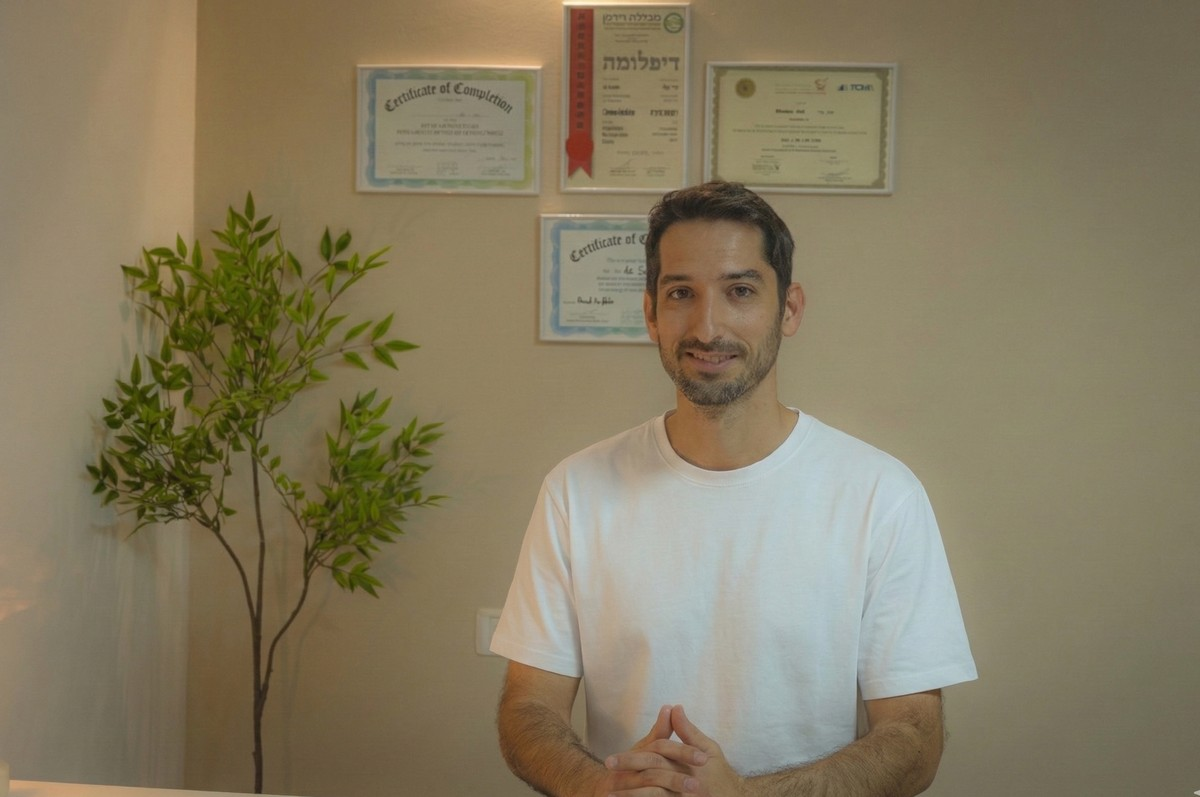
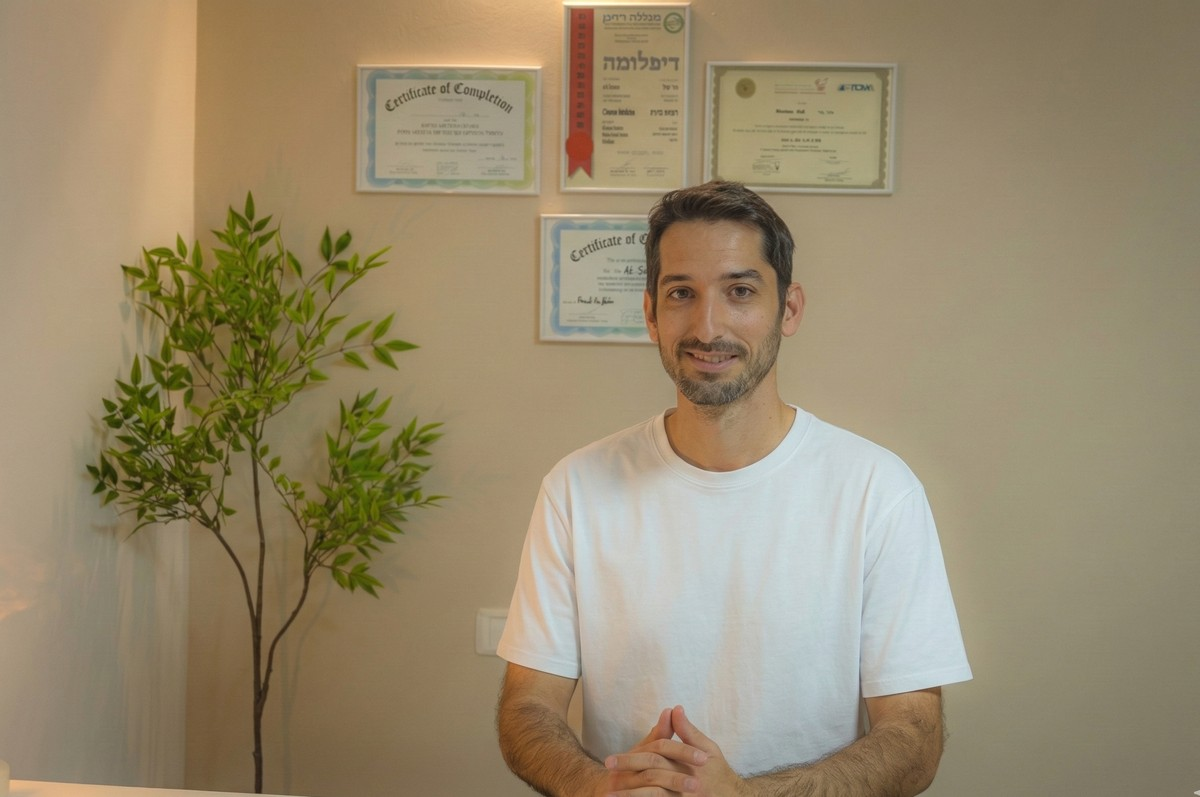
update: service descriptions, phone button, new portrait photo
- Rewrite all 4 service descriptions (acupuncture, shiatsu, herbs, cupping)
- Add floating phone call button above WhatsApp button
- Replace portrait photo with higher quality version

diff --git a/src/App.jsx b/src/App.jsx
@@ -398,10 +398,10 @@ const CuppingIcon = () => (
 
 // ─── Services ─────────────────────────────────────────────────────────────
 const SERVICES = [
-  { id: "svc-acupuncture", icon: <AcupunctureIcon />, title: "דיקור סיני",        text: "החדרת מחטים דקיקות בנקודות ספציפיות לאורך מרידיאנים בגוף. מסייע בכאבי גב, מיגרנות, חרדה, בעיות שינה ועייפות כרונית. הטיפול נמשך כ-45 דקות ורוב המטופלים מרגישים הקלה כבר מהטיפול הראשון." },
-  { id: "svc-shiatsu",     icon: <ShiatsuIcon />,     title: "שיאצו",             text: "עיסוי יפני עמוק בלחץ אגודלים וכפות ידיים על נקודות לאורך מרידיאנים. מתאים במיוחד למתח שרירי, כאבי צוואר וכתפיים, ולמי שמעדיף טיפול ללא מחטים. משחרר, מרגיע ומשפר טווחי תנועה." },
-  { id: "svc-herbs",       icon: <HerbsIcon />,       title: "צמחי מרפא סיניים", text: "נוסחאות צמחיות שמותאמות אישית לפי האבחון הסיני. משלימות את הטיפול בקליניקה ופועלות מבפנים — לחיזוק המערכת החיסונית, איזון הורמונלי ושיפור העיכול." },
-  { id: "svc-cupping",     icon: <CuppingIcon />,     title: "כוסות רוח",         text: "הנחת כוסות זכוכית חמות על הגב והכתפיים ליצירת ואקום. מגביר את זרימת הדם, משחרר שרירים תפוסים ומפחית דלקות. משולב לעיתים עם דיקור לתוצאות טובות יותר." },
+  { id: "svc-acupuncture", icon: <AcupunctureIcon />, title: "דיקור סיני",        text: "שיטה עתיקה המכוונת לשיפור זרימת האנרגיה בגוף, הפגת כאבים וטיפול בבעיות רפואיות שונות. הטיפול מותאם אישית לכל מטופל ומשפיע לטווח ארוך על הבריאות הכללית." },
+  { id: "svc-shiatsu",     icon: <ShiatsuIcon />,     title: "שיאצו",             text: "לחיצות ממוקדות לאורך מרידיאנים בגוף, במטרה לשחרר מתח, לשפר את זרימת הדם ולהקל על כאבים. שיאצו הוא פתרון טבעי ויעיל לשיפור הבריאות הפיזית והרגשית." },
+  { id: "svc-herbs",       icon: <HerbsIcon />,       title: "צמחי מרפא סיניים", text: "צמחי מרפא סיניים, הנבחרים בקפידה על פי הצרכים האישיים של כל מטופל. הצמחים תורמים לשיפור המערכת החיסונית, הפחתת דלקות ושיפור הבריאות הכללית בצורה טבעית." },
+  { id: "svc-cupping",     icon: <CuppingIcon />,     title: "כוסות רוח",         text: "שימוש בכוסות רוח לשיפור זרימת הדם ולהפחתת כאבים ודלקת. הטיפול, המבוצע באמצעות יצירת ואקום, מסייע בהקלה על כאבים כרוניים ובשיפור התחושה הכללית." },
 ];
 
 function Services() {
@@ -1132,29 +1132,49 @@ function FloatingWA() {
   return (
     <>
       <style>{`
-        .wa-float {
+        .float-buttons {
           position: fixed; bottom: 28px; left: 28px; z-index: 200;
-          display: flex; align-items: center; gap: 12px;
-          background: #25D366; color: white;
-          padding: 18px 32px; border-radius: 50px;
-          font-size: 17px; font-weight: 700;
-          text-decoration: none;
-          box-shadow: 0 6px 32px rgba(37,211,102,0.5);
+          display: flex; flex-direction: column; gap: 12px;
           opacity: 0; pointer-events: none;
         }
-        .wa-float:hover {
-          transform: scale(1.07) !important;
-          box-shadow: 0 8px 36px rgba(37,211,102,0.6) !important;
+        .float-btn {
+          display: flex; align-items: center; gap: 12px;
+          color: white; padding: 18px 32px; border-radius: 50px;
+          font-size: 17px; font-weight: 700;
+          text-decoration: none;
+          transition: transform 0.2s ease, box-shadow 0.3s;
+        }
+        .float-btn-phone {
+          background: #2563EB;
+          box-shadow: 0 6px 32px rgba(37,99,235,0.45);
+        }
+        .float-btn-phone:hover {
+          transform: scale(1.07);
+          box-shadow: 0 8px 36px rgba(37,99,235,0.6);
+        }
+        .float-btn-wa {
+          background: #25D366;
+          box-shadow: 0 6px 32px rgba(37,211,102,0.5);
+        }
+        .float-btn-wa:hover {
+          transform: scale(1.07);
+          box-shadow: 0 8px 36px rgba(37,211,102,0.6);
         }
         @media (max-width: 767px) {
-          .wa-float { padding: 16px 22px; }
-          .wa-float span.wa-label { display: none; }
+          .float-btn { padding: 16px 22px; }
+          .float-btn span.float-label { display: none; }
         }
       `}</style>
-      <a ref={elRef} href={WA_URL} target="_blank" rel="noreferrer" className="wa-float">
-        <WaSvg size={26} />
-        <span className="wa-label">ליצירת קשר</span>
-      </a>
+      <div ref={elRef} className="float-buttons">
+        <a href={`tel:+${PHONE}`} className="float-btn float-btn-phone">
+          <svg width="24" height="24" viewBox="0 0 24 24" fill="none" stroke="currentColor" strokeWidth="2" strokeLinecap="round" strokeLinejoin="round"><path d="M22 16.92v3a2 2 0 0 1-2.18 2 19.79 19.79 0 0 1-8.63-3.07 19.5 19.5 0 0 1-6-6 19.79 19.79 0 0 1-3.07-8.67A2 2 0 0 1 4.11 2h3a2 2 0 0 1 2 1.72 12.84 12.84 0 0 0 .7 2.81 2 2 0 0 1-.45 2.11L8.09 9.91a16 16 0 0 0 6 6l1.27-1.27a2 2 0 0 1 2.11-.45 12.84 12.84 0 0 0 2.81.7A2 2 0 0 1 22 16.92z"/></svg>
+          <span className="float-label">התקשרו אלי</span>
+        </a>
+        <a href={WA_URL} target="_blank" rel="noreferrer" className="float-btn float-btn-wa">
+          <WaSvg size={26} />
+          <span className="float-label">WhatsApp</span>
+        </a>
+      </div>
     </>
   );
 }
